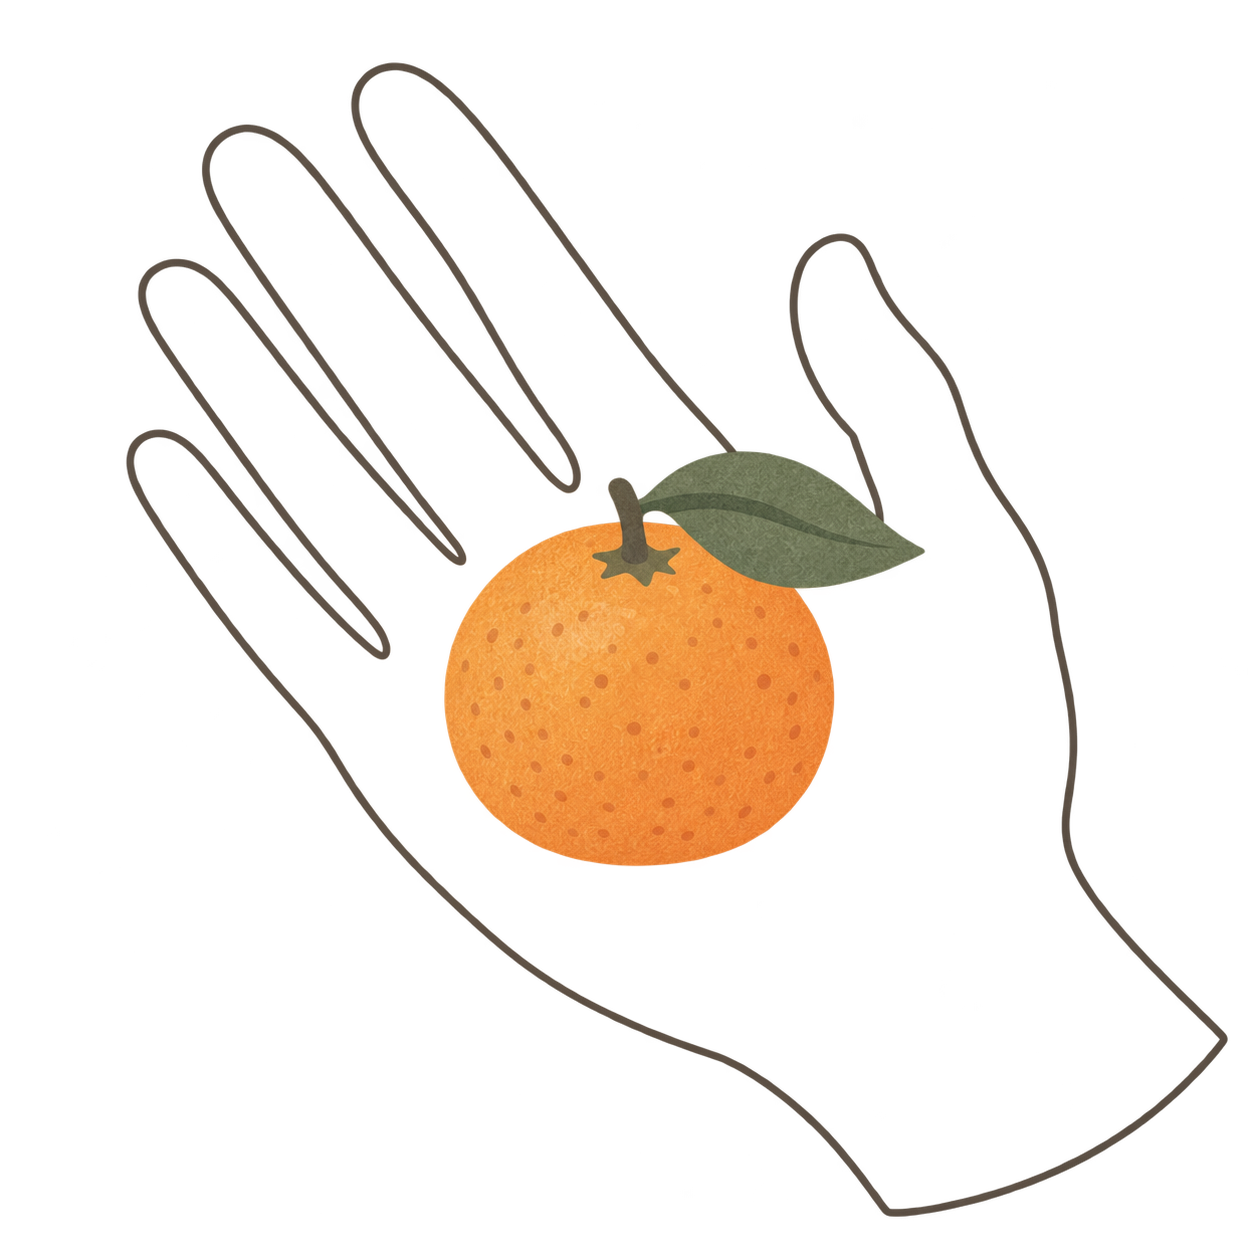
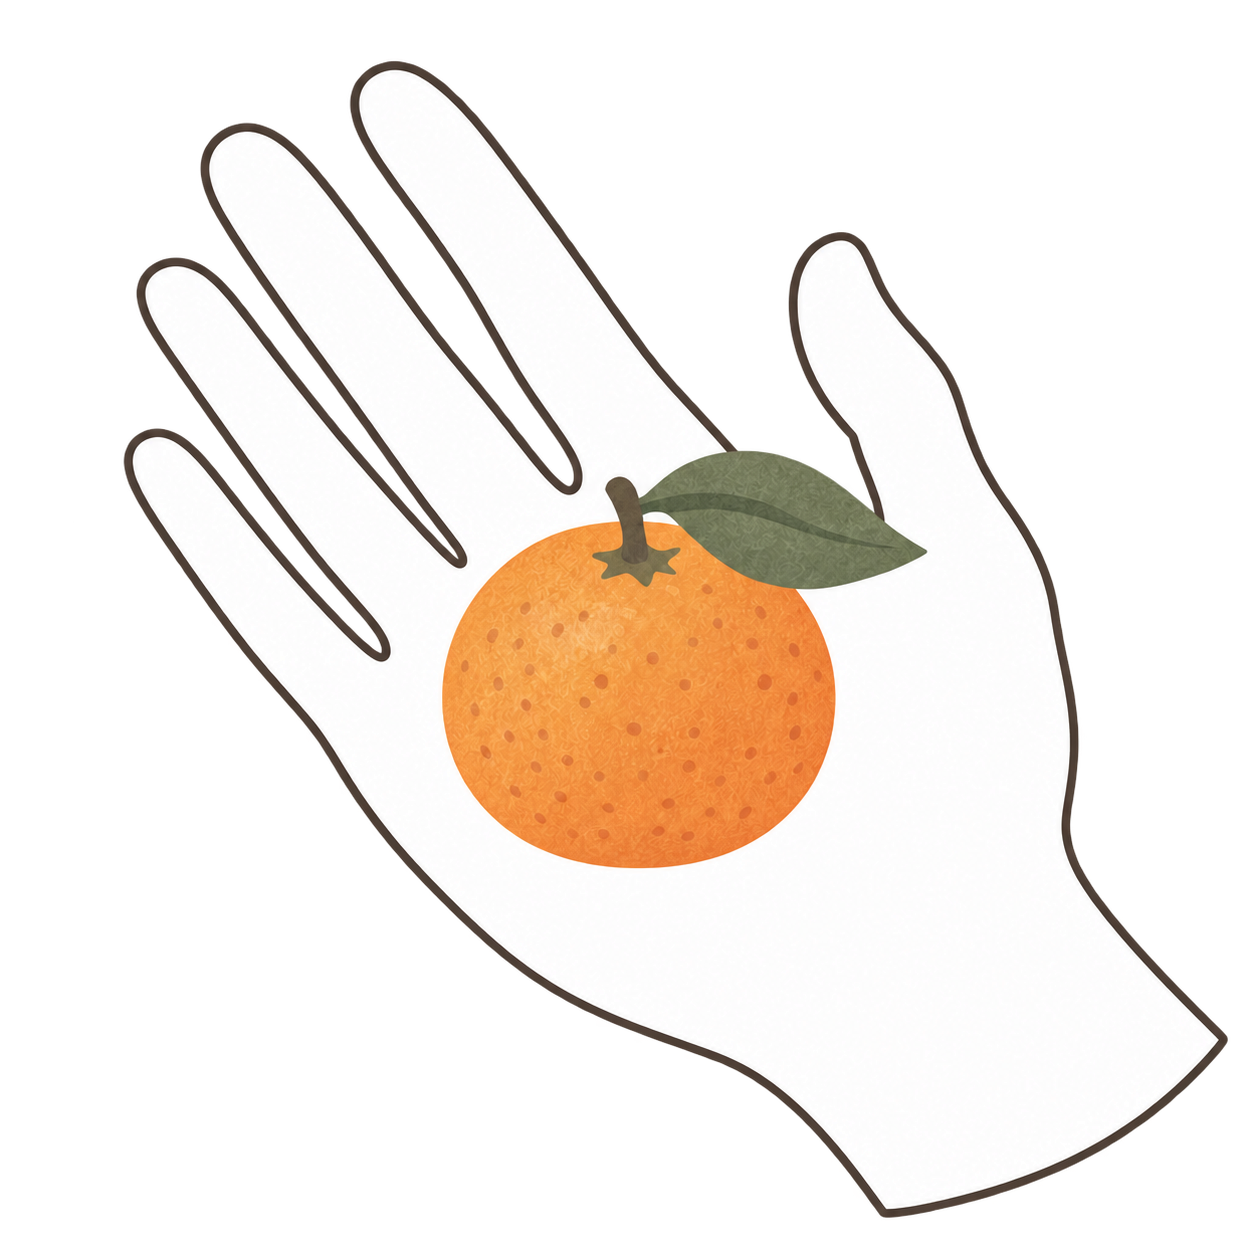
feat(ui): emphasize readings with white hands and orange fades (DEV-57; FEAT-07)

diff --git a/scripts/e2e/source-detail-design.spec.ts b/scripts/e2e/source-detail-design.spec.ts
@@ -49,7 +49,7 @@ for (const width of [360, 390, 430]) {
       ].includes(id)
         ? [{ uri: photo, alt: `${id} 가상 예시 사진` }]
         : [],
-      illustrationId: id === "sizePhoto" ? "hand-citrus-medium" : null,
+      illustrationId: id === "sizePhoto" ? `hand-citrus-${({360: "small", 390: "medium", 430: "large"} as Record<number, string>)[width]}` : null,
     }));
     await page.route(`${apiUrl}/api/products/p-house`, (route) =>
       route.fulfill({
@@ -71,7 +71,7 @@ for (const width of [360, 390, 430]) {
       detail.getByText("크기 설명용 일러스트 · 실제 규격 아님", {
         exact: true,
       }),
-    ).toBeVisible();
+    ).toHaveCount(0);
     await expect(detail.getByText("18cm", { exact: true })).toBeVisible();
     await expect(
       detail.getByText("자료 입력 전", { exact: false }),
@@ -87,7 +87,15 @@ for (const width of [360, 390, 430]) {
       "rgb(201, 79, 12)",
     );
     const sizePanel = detail.getByTestId("source-size-panel");
-    await expect(sizePanel).toHaveCSS("padding-top", "28px");
+    await expect(sizePanel).toHaveCSS("padding-top", "64px");
+    await expect(sizePanel.getByText("18cm", { exact: true })).toHaveCSS("font-size", "40px");
+    await expect(sizePanel.getByText("18cm", { exact: true })).toHaveCSS("font-weight", "700");
+    await expect(sizePanel.getByText(/비교용 가정/)).toBeVisible();
+    for (const edge of ["top", "bottom"]) {
+      await expect(sizePanel.getByTestId(`illustration-fade-${edge}`)).toHaveCSS("height", "48px");
+      await expect(sizePanel.getByTestId(`illustration-fade-${edge}`)).toHaveCSS("background-image", /linear-gradient/);
+    }
+    expect((await sizePanel.getByText("18cm", { exact: true }).boundingBox())!.height).toBeCloseTo(48, 0);
     const handBox = await sizePanel.getByRole("img", { name: "설명용 감귤 크기 일러스트" }).boundingBox();
     expect(handBox).not.toBeNull();
     expect(handBox!.height).toBeCloseTo(handBox!.width, 0);
@@ -204,17 +212,20 @@ test("AC-07-2: generated meter accompanies only real Brix readings", async ({
       "background-color", "rgb(201, 79, 12)",
     );
     expect((await card.getByTestId("illustration-backdrop").boundingBox())!.width).toBeCloseTo(width, 0);
-    await expect(card).toHaveCSS("padding-top", "28px");
-    await expect(card).toHaveCSS("padding-bottom", "28px");
+    await expect(card).toHaveCSS("padding-top", "64px");
+    await expect(card).toHaveCSS("padding-bottom", "64px");
     await expect(
-      card.getByText("당도 실측 13.5Brix", { exact: true }),
+      card.getByText("13.5 Brix", { exact: true }),
     ).toBeVisible();
+    await expect(card.getByText("당도 실측", { exact: true })).toBeVisible();
+    await expect(card.getByText("13.5 Brix", { exact: true })).toHaveCSS("font-size", "40px");
+    await expect(card.getByText("13.5 Brix", { exact: true })).toHaveCSS("font-weight", "700");
     await expect(card.getByText(/측정$/)).toBeVisible();
     const image = card.getByTestId("brix-meter-illustration");
     await expect(image).toBeVisible();
     const imageBox = await image.boundingBox();
     const readingBox = await card
-      .getByText("당도 실측 13.5Brix", { exact: true })
+      .getByText("13.5 Brix", { exact: true })
       .boundingBox();
     expect(imageBox).not.toBeNull();
     expect(readingBox).not.toBeNull();
@@ -242,7 +253,7 @@ test("AC-07-2: generated meter accompanies only real Brix readings", async ({
   await expect(
     page
       .getByTestId("brix-reading")
-      .getByText("당도 실측 0Brix", { exact: true }),
+      .getByText("0 Brix", { exact: true }),
   ).toBeVisible();
   await expect(page.getByText("측정일 미등록", { exact: true })).toBeVisible();
   await expect(page.getByTestId("brix-meter-illustration")).toBeVisible();

diff --git a/packages/ui/src/ModuleStory.tsx b/packages/ui/src/ModuleStory.tsx
@@ -105,12 +105,12 @@ function Illustration({ id, inset = 22 }: { id: string; inset?: number }) {
         marginTop: 16,
         marginHorizontal: -inset,
         paddingHorizontal: 24,
-        paddingVertical: 28,
+        paddingVertical: 64,
         overflow: "hidden",
       }}
     >
       <IllustrationBackdrop />
-      <View style={{ flexDirection: "row", alignItems: "center", gap: 8 }}>
+      <View style={{ flexDirection: "row", alignItems: "center", gap: 12 }}>
         <View style={{ flex: 1, aspectRatio: 1 }}>
           <Image
             source={illustrations[id]}
@@ -119,21 +119,18 @@ function Illustration({ id, inset = 22 }: { id: string; inset?: number }) {
             style={{ width: "100%", height: "100%" }}
           />
         </View>
-        <View style={{ width: 70, gap: 4 }}>
-          <T variant="caption" color={tokens.color.onAccent} center>
+        <View style={{ width: 120, gap: 4 }}>
+          <T style={{ fontSize: 17, lineHeight: 26 }} color={tokens.color.onAccent} center>
             기준 손 길이
           </T>
-          <T center style={{ fontSize: 25, lineHeight: 35, color: tokens.color.onAccent }}>
+          <T weight="bold" center style={{ fontSize: 40, lineHeight: 48, color: tokens.color.onAccent }}>
             18cm
           </T>
-          <T variant="caption" color={tokens.color.onAccent} center>
+          <T style={{ fontSize: 17, lineHeight: 26 }} color={tokens.color.onAccent} center>
             {"손끝~손목\n비교용 가정"}
           </T>
         </View>
       </View>
-      <T variant="caption" color={tokens.color.onAccent} center>
-        크기 설명용 일러스트 · 실제 규격 아님
-      </T>
     </View>
   );
 }

diff --git a/packages/ui/src/BrixReading.tsx b/packages/ui/src/BrixReading.tsx
@@ -21,8 +21,8 @@ export function BrixReading({
       style={{
         paddingHorizontal: 20,
         marginTop: hasMeasurement ? 40 : 0,
-        paddingTop: hasMeasurement ? 28 : 40,
-        paddingBottom: hasMeasurement ? 28 : 0,
+        paddingTop: hasMeasurement ? 64 : 40,
+        paddingBottom: hasMeasurement ? 64 : 0,
         flexDirection: hasMeasurement ? "column" : "row",
         alignItems: "center",
         gap: 16,
@@ -43,16 +43,23 @@ export function BrixReading({
       )}
       <View style={{ flex: hasMeasurement ? undefined : 1, gap: 4 }}>
         <T
+          style={hasMeasurement ? { fontSize: 17, lineHeight: 26 } : undefined}
           variant="body"
           weight="semibold"
           center={hasMeasurement}
           color={hasMeasurement ? tokens.color.onAccent : undefined}
         >
           {hasMeasurement
-            ? `당도 실측 ${measured}Brix`
+            ? "당도 실측"
             : `당도 예상 ${expected ?? "-"}Brix`}
         </T>
+        {hasMeasurement ? (
+          <T weight="bold" center color={tokens.color.onAccent} style={{ fontSize: 40, lineHeight: 48 }}>
+            {`${measured} Brix`}
+          </T>
+        ) : null}
         <T
+          style={hasMeasurement ? { fontSize: 17, lineHeight: 26 } : undefined}
           variant="sub"
           muted={!hasMeasurement}
           center={hasMeasurement}

diff --git a/packages/ui/src/IllustrationBackdrop.tsx b/packages/ui/src/IllustrationBackdrop.tsx
@@ -1,4 +1,5 @@
 import { Image, StyleSheet, View } from "react-native";
+import { LinearGradient } from "expo-linear-gradient";
 import { tokens } from "./tokens";
 
 /** Generated paper grain over the same orange used by the primary button. */
@@ -16,6 +17,16 @@ export function IllustrationBackdrop() {
         accessible={false}
         resizeMode="cover"
         style={{ width: "100%", height: "100%", opacity: 0.35 }}
+      />
+      <LinearGradient
+        testID="illustration-fade-top"
+        colors={["#FFFFFF", "rgba(255,255,255,0)"]}
+        style={{ position: "absolute", top: 0, left: 0, right: 0, height: 48 }}
+      />
+      <LinearGradient
+        testID="illustration-fade-bottom"
+        colors={["rgba(255,255,255,0)", "#FFFFFF"]}
+        style={{ position: "absolute", bottom: 0, left: 0, right: 0, height: 48 }}
       />
     </View>
   );

diff --git a/docs/wiki/Source-Analysis.md b/docs/wiki/Source-Analysis.md
@@ -85,7 +85,9 @@ Thirty additional regression calls used unchanged saved inputs: the 12-case Rapi
 
 The initial integration connected data review and publication but missed the final DEV-52 visual template. The shared ModuleStory now follows its cover and grouped reading order, eight generated heading icons, paper photo frames, and the existing hand-size illustrations. Producer previews and consumer details use the same renderer. The final reference uses plain section rules, not the archived generated dividers.
 
-Only supplied text, photos, and explicitly selected illustrations are rendered. Empty groups, studio placeholders, example product facts, and assumed production stages are omitted. The standalone row of three process icons is omitted; section-heading icons remain. Photo aspect ratios remain intact. Web photos use the original paper frame (9% slices, 14px border), while native photos keep the existing renderer. Hand-comparison artwork and labels sit on an edge-to-edge dark-orange paper texture generated with ImageGen, matching the primary button accent (#C94F0C). White text and 24px horizontal/28px vertical padding keep the comparison readable. The farm-news heading adds an eighth 36px icon matching the existing paper illustrations; smaller headings remain text-only. Illustration labels explicitly identify the 18cm hand as a comparison assumption, not a measured product size. This change does not integrate experimental Gemini OCR or alter extraction accuracy gates.
+Only supplied text, photos, and explicitly selected illustrations are rendered. Empty groups, studio placeholders, example product facts, and assumed production stages are omitted. The standalone row of three process icons is omitted; section-heading icons remain. Photo aspect ratios remain intact. Web photos use the original paper frame (9% slices, 14px border), while native photos keep the existing renderer. Hand-comparison artwork and labels sit on an edge-to-edge dark-orange paper texture generated with ImageGen, matching the primary button accent (#C94F0C). White text and 24px horizontal/64px vertical padding keep the comparison readable. The farm-news heading adds an eighth 36px icon matching the existing paper illustrations; smaller headings remain text-only. Illustration labels explicitly identify the 18cm hand as a comparison assumption, not a measured product size. This change does not integrate experimental Gemini OCR or alter extraction accuracy gates.
 
 
-A generated, transparent Brix-meter illustration appears centered above the measured-sweetness reading, in a responsive square up to 280px. It preserves the user-selected meter shape and matches the filled paper texture and colors of the existing tangerine and section icons. It contains no numeric reading or certification claim. The illustration and reading share the same full-width orange paper background with 28px vertical padding and white text. The generated texture is layered at 35% opacity over the primary button accent, without adding a card, border or shadow. API values and dates are separate text below; zero remains a measured value and a missing date is explicit. Without a measurement, the illustration is hidden and the existing estimated-value guidance remains without the colored background. The original alpha and final built-in ImageGen prompt are preserved in the repository.
+A generated, transparent Brix-meter illustration appears centered above the measured-sweetness reading, in a responsive square up to 280px. It preserves the user-selected meter shape and matches the filled paper texture and colors of the existing tangerine and section icons. It contains no numeric reading or certification claim. The illustration and reading share the same full-width orange paper background with 64px vertical padding and white text. The generated texture is layered at 35% opacity over the primary button accent, without adding a card, border or shadow. API values and dates are separate text below; zero remains a measured value and a missing date is explicit. Without a measurement, the illustration is hidden and the existing estimated-value guidance remains without the colored background. The original alpha and final built-in ImageGen prompt are preserved in the repository.
+
+The hand and measured-Brix sections blend into the white page with 48px top and bottom fades. All three hand illustrations have white interiors and transparent exteriors. The footer illustration caption is removed; the adjacent comparison-assumption label remains. The 18cm reference and measured Brix number use bold 40px/48px text; labels and dates use 17px/26px white text. Measured readings have separate title, value and date lines. Unmeasured guidance is unchanged.

diff --git a/packages/ui/spec.md b/packages/ui/spec.md
@@ -72,9 +72,11 @@ Current contract: docs/spec/source-integration.md, AC-SRC-1~10. SourceWorkspace 
 
 `ModuleStory`는 DEV-52 최종 `docs/design/sales-templates/all-sections.*`의 상품 표지, 구역 묶음, 제목·본문 크기와 손 위 일러스트를 사용한다. 후속 사용자 결정으로 농가 소식을 포함한36px 제목 아이콘8종과 이미지 배경을 적용한다. 작은 제목은 텍스트로 유지한다. 18개 모듈의 저장 계약은 유지하고 구매자 순서의9개 구역으로 표시한다. 빈 구역·공백뿐인 문구는 숨긴다. 생산자 DraftPreview와 소비자 moduleDetail은 같은 컴포넌트를 사용한다.
 
-원문 텍스트는 줄바꿈·숫자·기호를 보존한다. 작업실의 예시/자리 표시·원산지/품종 기본값·공정 순서를 추가하지 않는다. 설명 없는 공정 장식3종은 표시하지 않는다. 공개 사진은 SourcePhoto/StoryImage로 원본 비율을 유지하며 웹에서는 기존 종이 프레임(9% 분할/14px border-image)을 사진 밖에 표시한다. 네이티브는 기존 사진 렌더러를 유지한다. 크림색 사진 배경은 제거한다. 손 크기 비교는 섹션 여백 밖까지 확장한 전체 폭에 버튼과 같은 accent #C94F0C 및 ImageGen 주황 종이 질감을 적용한다. 안쪽24px/상하28px 여백에 그림·기준·설명을 함께 배치하고 글자는 흰색으로 표시한다. 실제 상품 사진과 설명용 일러스트를 구분하며 후자에만 기준 손18cm/가정/실제 규격 아님을 표시한다.
+원문 텍스트는 줄바꿈·숫자·기호를 보존한다. 작업실의 예시/자리 표시·원산지/품종 기본값·공정 순서를 추가하지 않는다. 설명 없는 공정 장식3종은 표시하지 않는다. 공개 사진은 SourcePhoto/StoryImage로 원본 비율을 유지하며 웹에서는 기존 종이 프레임(9% 분할/14px border-image)을 사진 밖에 표시한다. 네이티브는 기존 사진 렌더러를 유지한다. 크림색 사진 배경은 제거한다. 손 크기 비교는 섹션 여백 밖까지 확장한 전체 폭에 버튼과 같은 accent #C94F0C 및 ImageGen 주황 종이 질감을 적용한다. 안쪽24px/상하64px 여백에 그림과 기준 손 길이를 함께 배치하고 글자는 흰색으로 표시한다. 실제 상품 사진과 설명용 일러스트를 구분하며 후자에만 기준 손18cm/비교용 가정을 표시한다.
 
 
 ## DEV-57 당도계 일러스트
 `brix-meter.png`는 사용자 지정 당도계 형태에 기존 귤·냉장고·선별 아이콘의 채색 종이 질감을 적용한 일러스트다. 크림·세이지·귤색을 공유한다. 최종 생성 프롬프트와 참조 경로는 자산 옆에 기록한다.
-`BrixReading`은 API 실측값이 null이 아닐 때 당도계 장식을280×280 영역 중앙에 크게 표시하고 실제 값/측정일을 아래 중앙에 배치한다. 그림·값·날짜 전체에 버튼 accent #C94F0C/상하28px의 전체 폭 배경과 ImageGen 주황 종이 질감을 적용한다. 글자는 흰색이다. 공통 IllustrationBackdrop은 생성 원본을35%로 겹쳐 버튼의 색조를 유지하며 접근성 트리/터치를 방해하지 않는다. 0을 예상값으로 대체하지 않으며 날짜 미등록은 명시한다. 실측값이 없으면 배경과 그림 없이 기존 예상값/대기 안내 행을 유지한다. 그림 자체에는 숫자나 인증 표시가 없다.
+`BrixReading`은 API 실측값이 null이 아닐 때 당도계 장식을280×280 영역 중앙에 크게 표시하고 실제 값/측정일을 아래 중앙에 배치한다. 그림·값·날짜 전체에 버튼 accent #C94F0C/상하64px의 전체 폭 배경과 ImageGen 주황 종이 질감을 적용한다. 글자는 흰색이다. 공통 IllustrationBackdrop은 생성 원본을35%로 겹쳐 버튼의 색조를 유지하며 접근성 트리/터치를 방해하지 않는다. 0을 예상값으로 대체하지 않으며 날짜 미등록은 명시한다. 실측값이 없으면 배경과 그림 없이 기존 예상값/대기 안내 행을 유지한다. 그림 자체에는 숫자나 인증 표시가 없다.
+
+손·실측 당도 강조 영역은 위아래48px 흰색 페이드로 본문 배경과 연결한다. 손3종 내부는 흰색이고 바깥 알파는 유지한다. 하단 일러스트 설명은 제거하며 손 옆 비교용 가정은 유지한다. 18cm 및 실측 숫자는40px/48px bold, 안내·당도 제목·날짜는17px/26px 흰색이다. 실측은 제목/값/날짜로 분리하고 미측정 안내는 유지한다.

diff --git a/packages/ui/assets/source/white-hand-prompts.md b/packages/ui/assets/source/white-hand-prompts.md
@@ -1,0 +1,10 @@
+# 손 내부 흰색 채움 (DEV-57)
+
+- Mode: built-in ImageGen, precise-object-edit, transparent_background=true.
+- Edit targets: original outline-small.png, outline-medium.png, outline-large.png. Originals are preserved in docs/design/sales-templates/assets/size-guide/.
+- Outputs: outline-small.png, outline-medium.png, outline-large.png in this directory. Generated PNGs copied without image post-processing.
+- Generated output IDs: small f6d329bb-d805-43cc-ac76-79c92a39babd; medium b3777448-3375-401e-a0a3-7d6015fe1ccc; large cf63bd3a-bafe-4197-8135-2391bf209dc8.
+
+## Final prompt (one separate edit per size)
+
+Use case: precise-object-edit. Edit this supplied illustration with ONE change only: fill the entire enclosed hand silhouette interior (all fingers, palm and wrist) with opaque pure white #FFFFFF. Keep the thin dark gray-brown outline exactly in the same shape, position and weight. Keep the orange tangerine, leaf, stem, their size and position, paper texture and colors unchanged. Preserve the same canvas and framing. Everything OUTSIDE the hand remains truly transparent, including the gaps between fingers. No new lines, fingernails, palm creases, skin shading, gradients, shadows, objects or text. This is flat white infill inside the existing contour, not a redesign. Fruit remains on top of the white palm.

diff --git a/packages/ui/assets/source/README.md b/packages/ui/assets/source/README.md
@@ -9,3 +9,5 @@
 소제목 아이콘은 36px 장식이며 읽을 수 있는 제목을 별도로 둔다. 공정 아이콘3종 행은 표시하지 않는다. 후속 사용자 결정으로 사진은 기존 종이 프레임을 복원했다. 손 비교·실측 당도만 버튼색 #C94F0C 바탕과 [ImageGen 주황 종이 질감](decor/orange-paper-prompt.md)으로 전체 폭을 채운다. 이전 생성 구획선은 이식하지 않고 일반 선을 유지한다. 원산지/품종 아이콘은 해당 구조화 정보가 없는 모듈에 임의로 붙이지 않는다.
 
 농가 소식은 내장 ImageGen으로 새로 만든 `headings/updates.png`를 사용한다. 기존 제목 아이콘을 직접 참조한 [최종 프롬프트](headings/updates-prompt.md)와 생성 원본 알파를 보존한다. 기존7종에 소식1종을 더해 큰 제목 아이콘은8종이며 작은 제목에는 추가하지 않는다. 당도계는 사용자 확정 [그림과 생성 기록](brix-meter-prompt.md)을 사용한다.
+
+손3종은 [흰색 채움 편집 프롬프트](white-hand-prompts.md)에 따라 built-in ImageGen으로 편집했다. 손 내부는 흰색, 바깥은 투명이며 기존 원본은 docs/design/sales-templates/assets/size-guide에 보존한다. 손·당도 영역의48px 위아래 페이드는 공통 컴포넌트가 렌더링한다.
